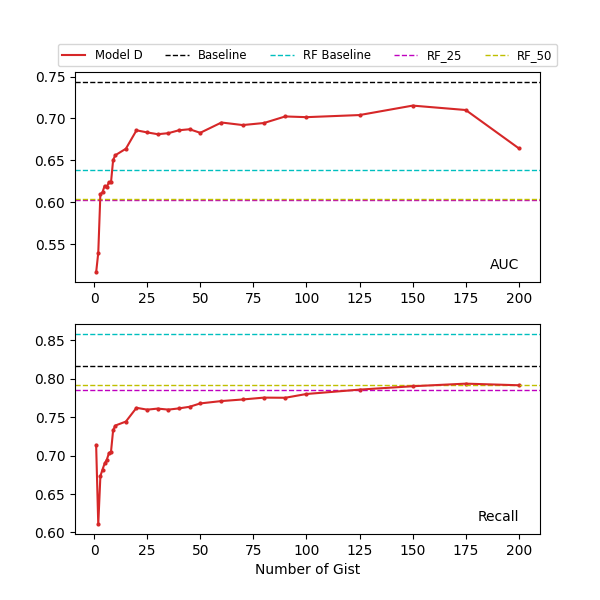
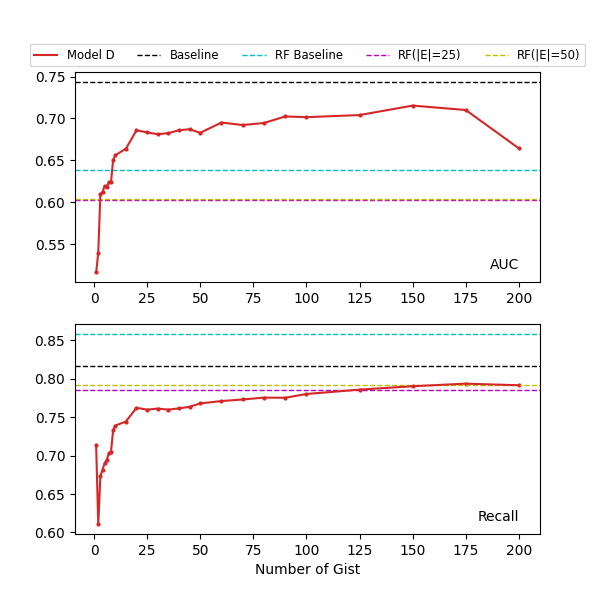
Plots Update

diff --git a/plots.py b/plots.py
@@ -55,12 +55,12 @@ model_results = {
     'RandomForest_with_25_gist_only_075':{
         'recall': 0.60242,
         'auc': 0.78484,
-        'name': 'RF_25'
+        'name': 'RF(|E|=25)'
     },
     'RandomForest_with_50_gist_only_075':{
         'recall': 0.60398,
         'auc': 0.79228,
-        'name': 'RF_50'
+        'name': 'RF(|E|=50)'
     }
 }
 
